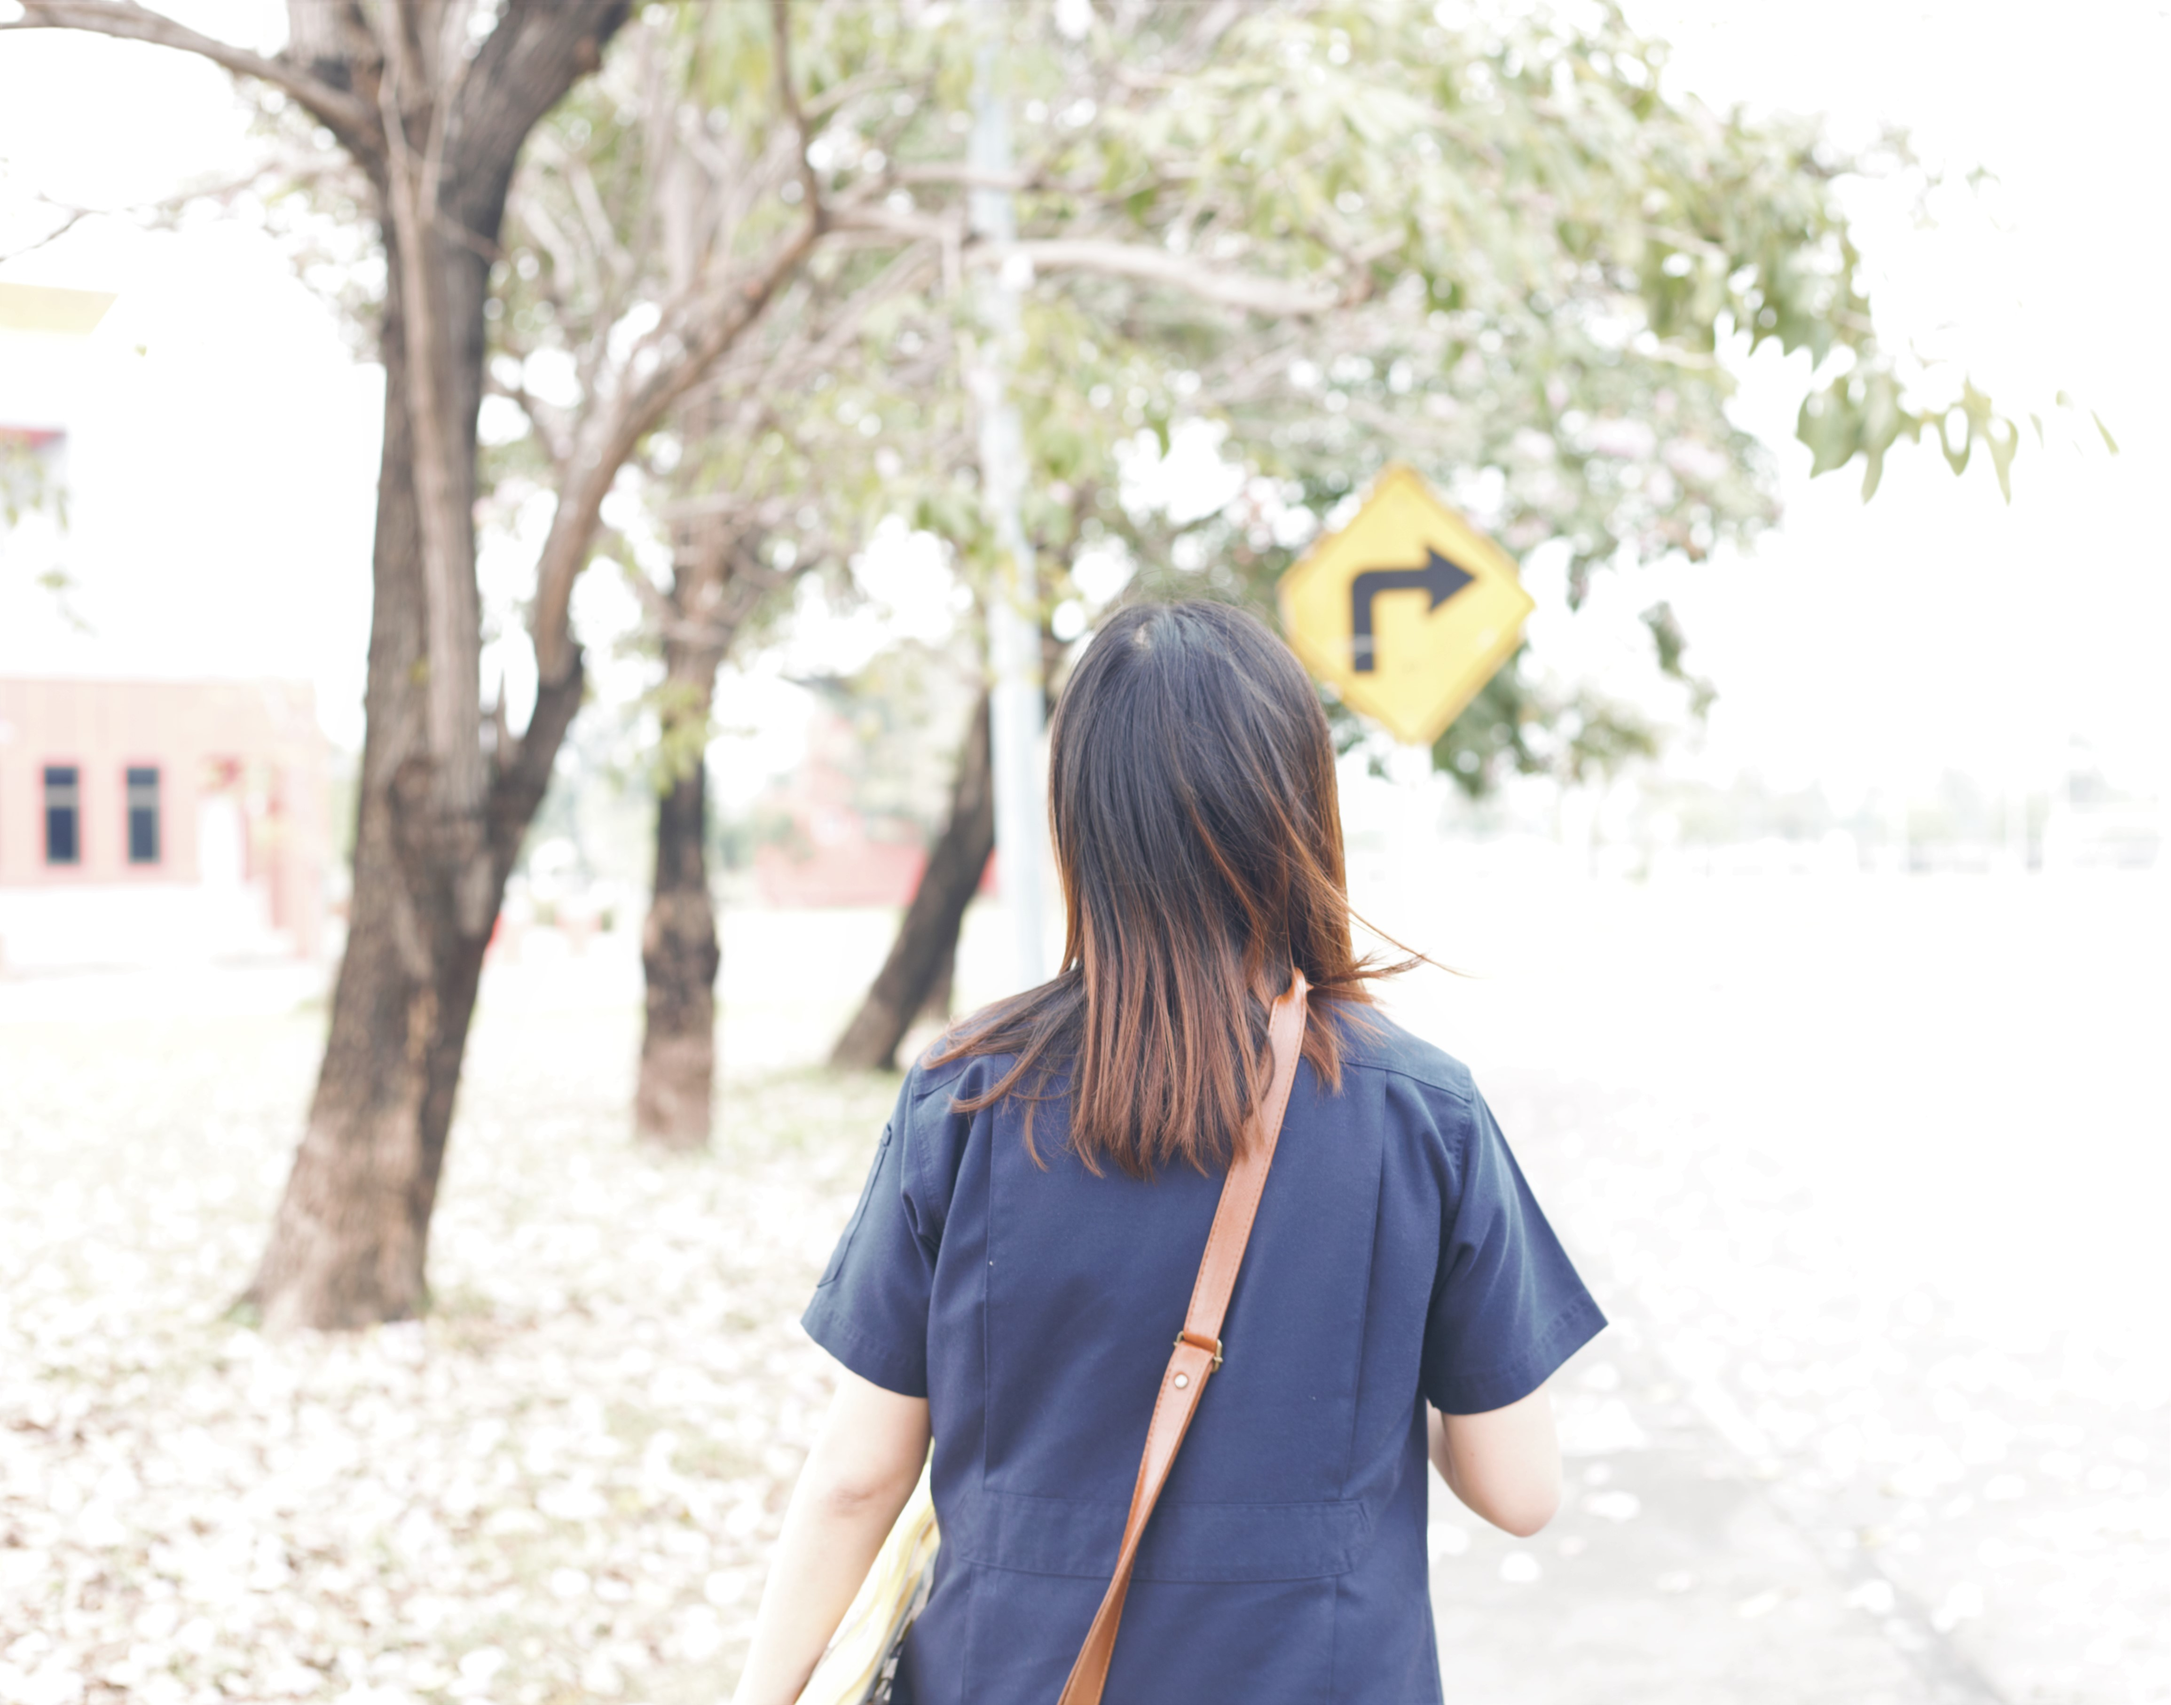
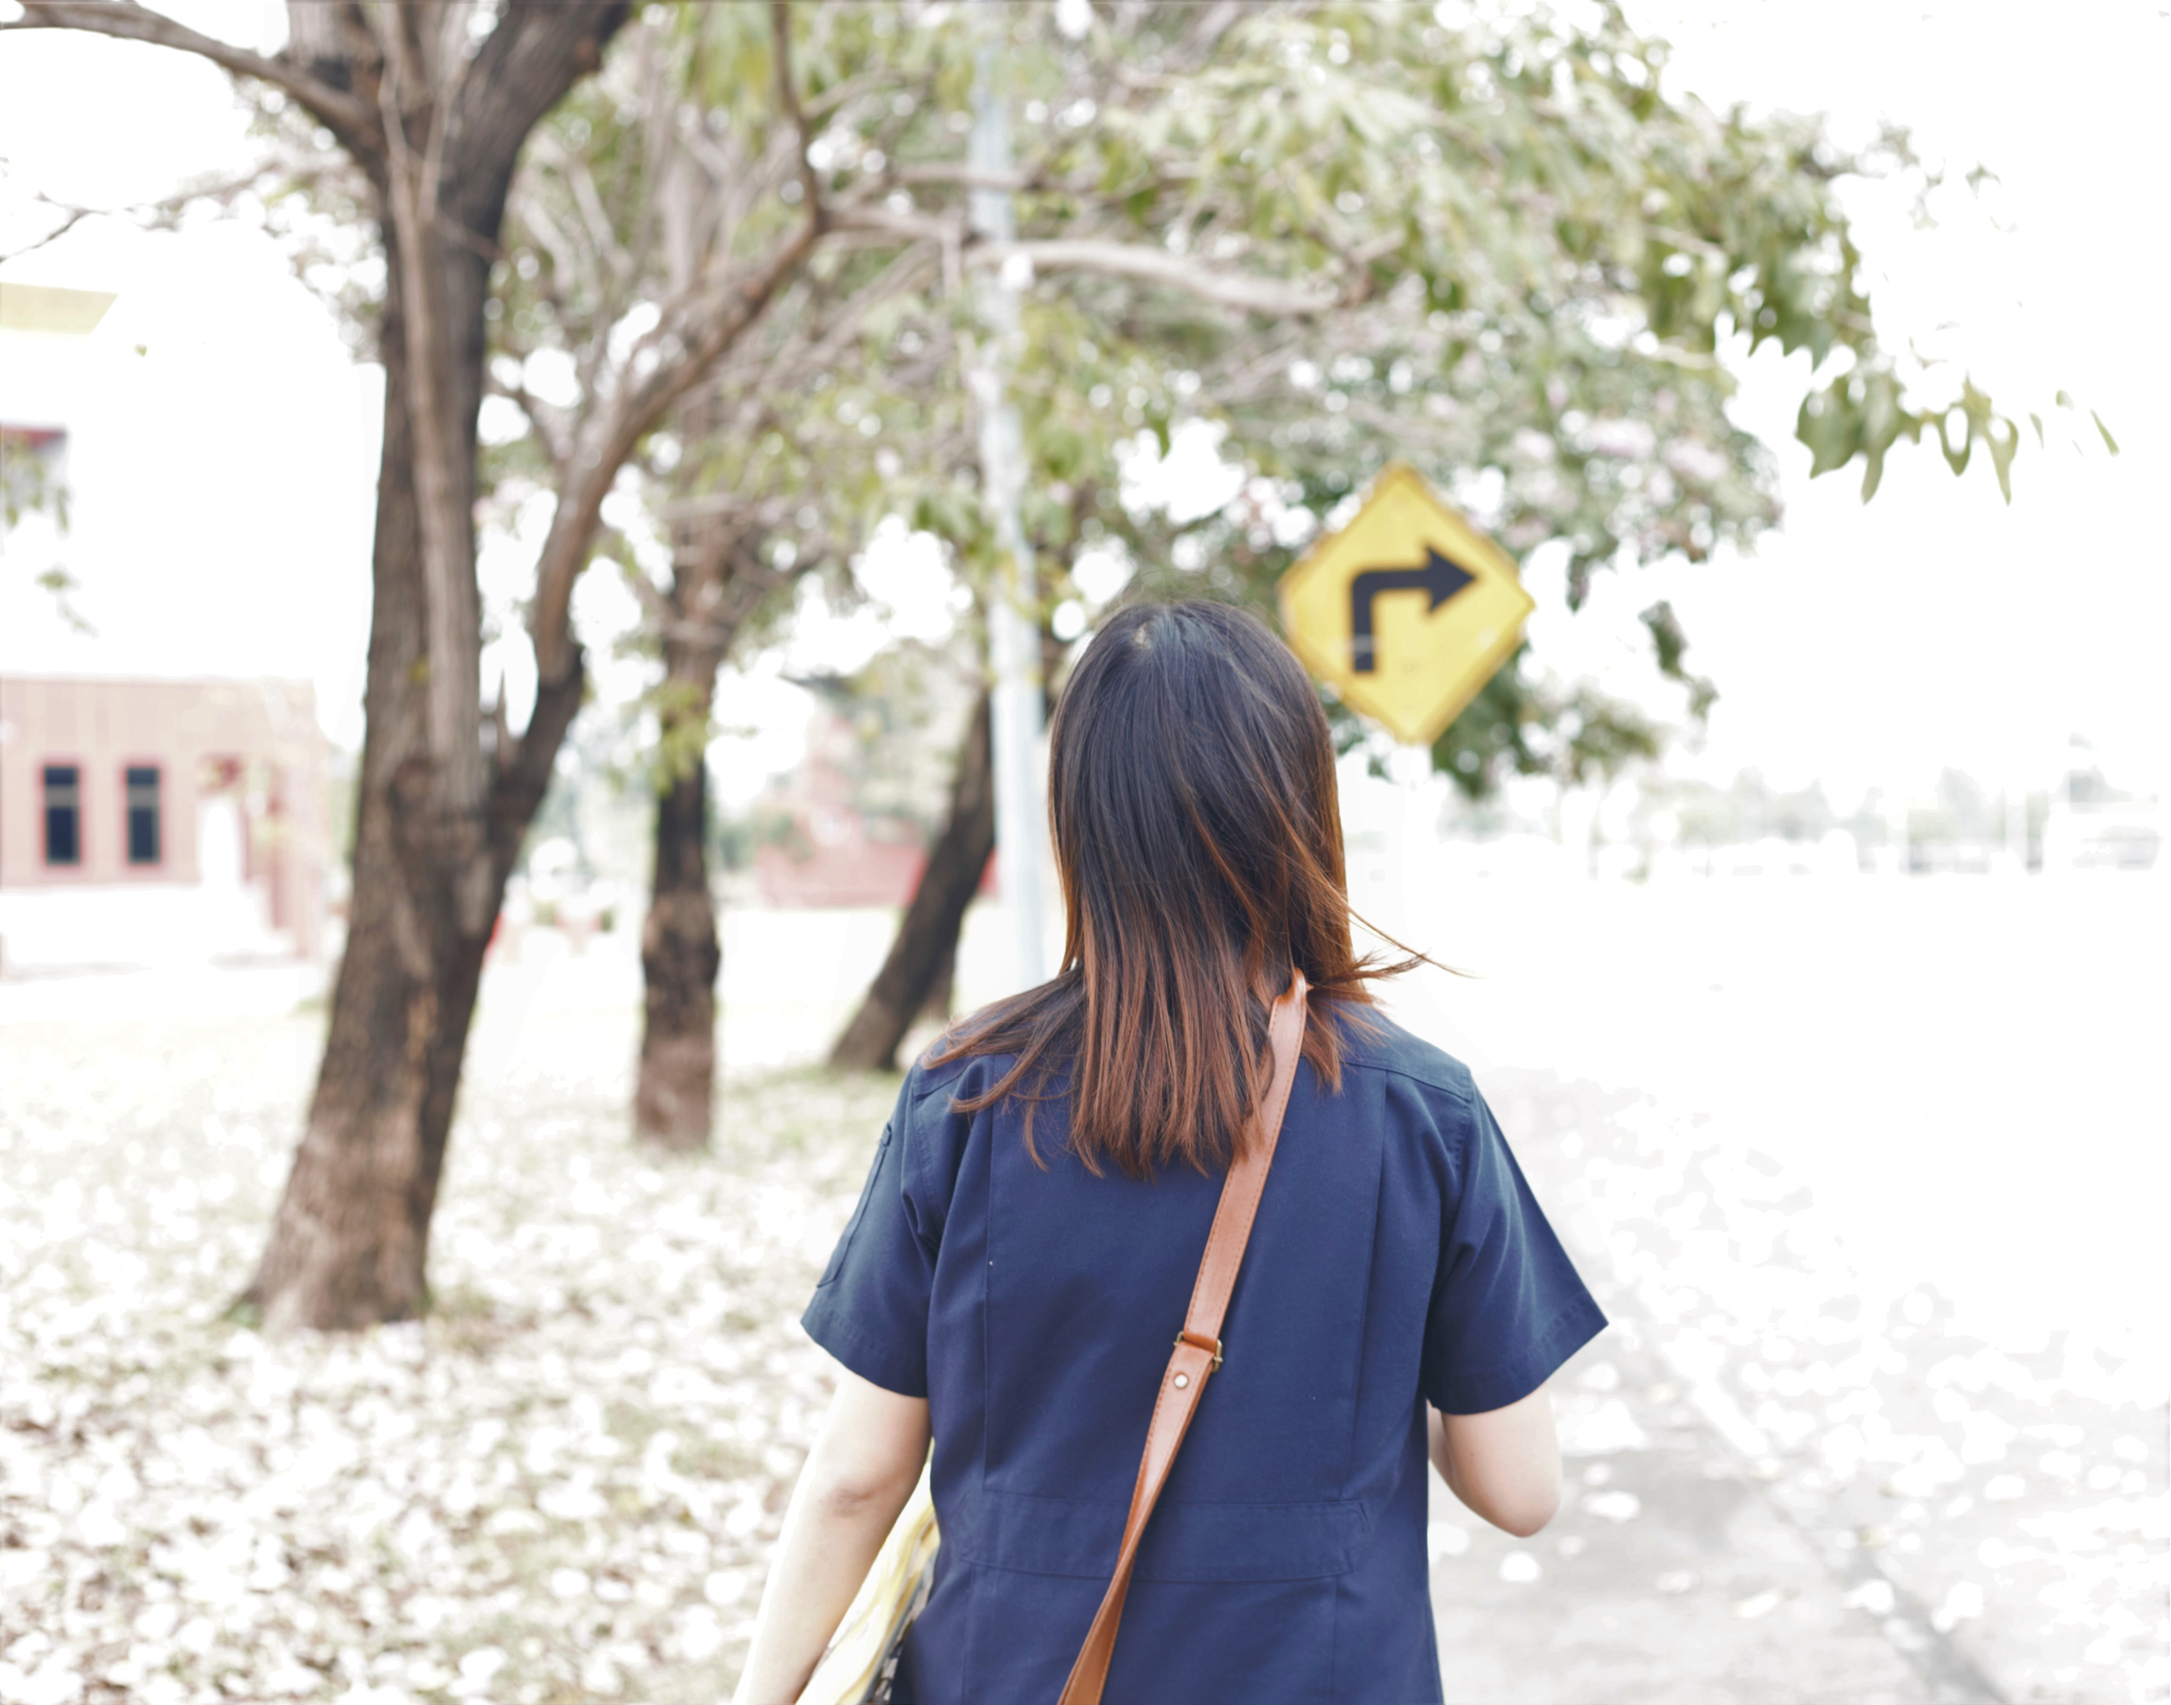
Create Home : add img

diff --git a/src/components/pages/Home.js b/src/components/pages/Home.js
@@ -100,7 +100,7 @@ export const Home = () => {
               <Col xs={8}>
                 <Card style={{ height: '250px', width: '350px', margin: '25px' }}>
                   <img
-                    src={require('../../img/au2_n.jpg')}
+                    src={require('../../img/home2.jpg')}
                     alt="logo"
                     align="center"
                     style={{ height: '200px', width: '300px' }}
